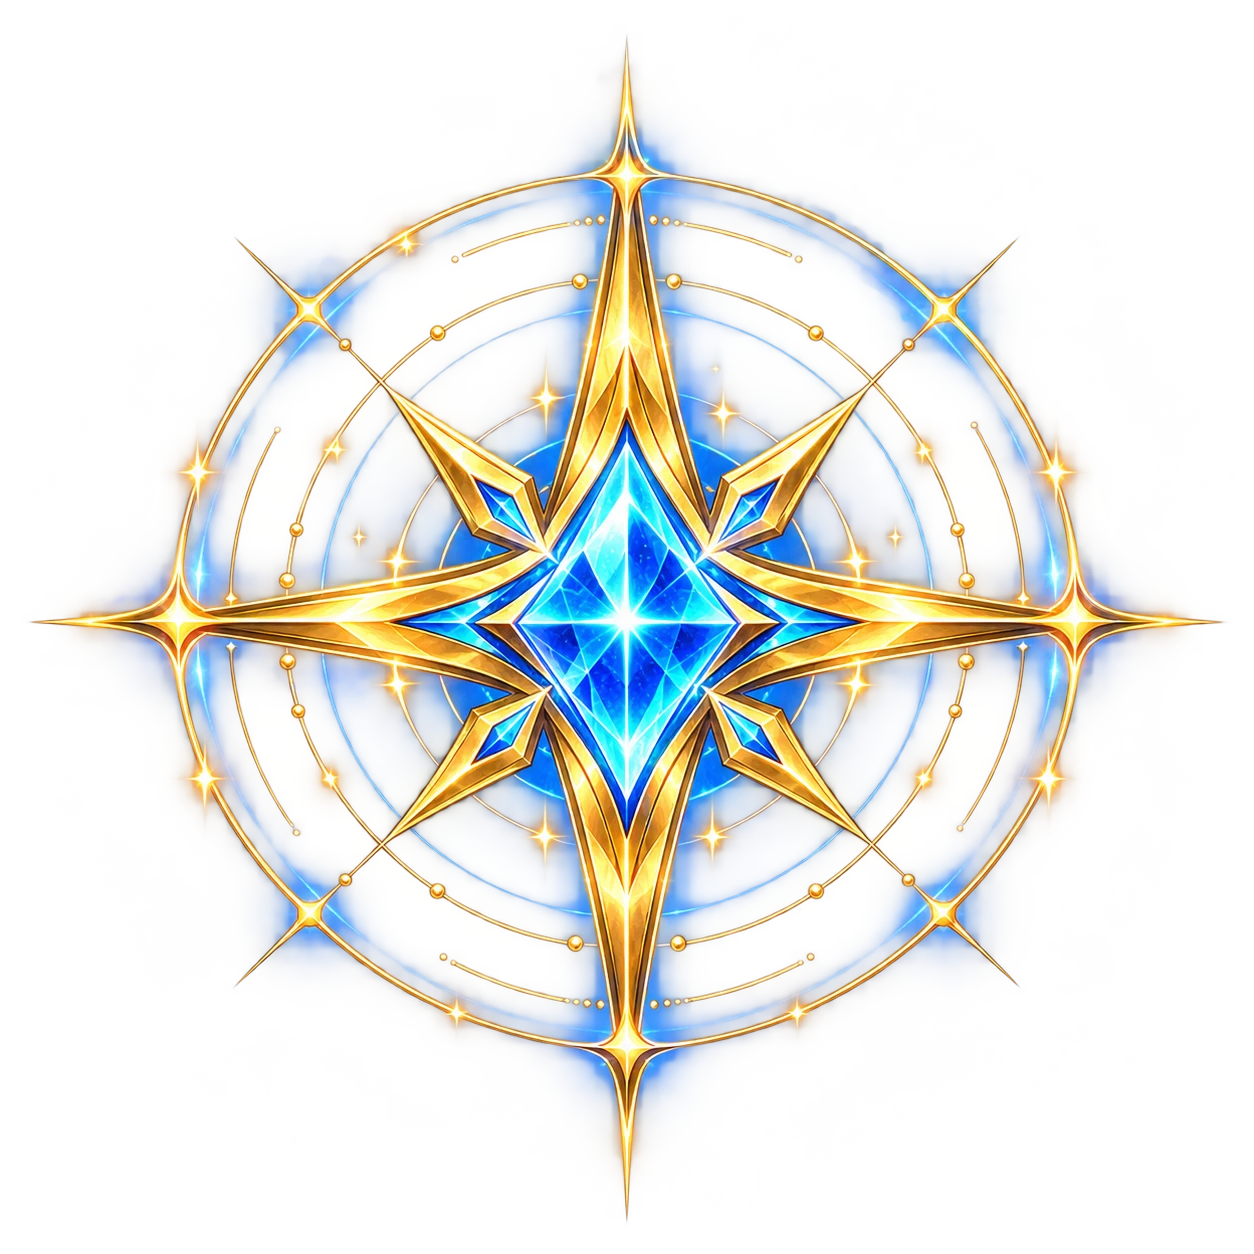
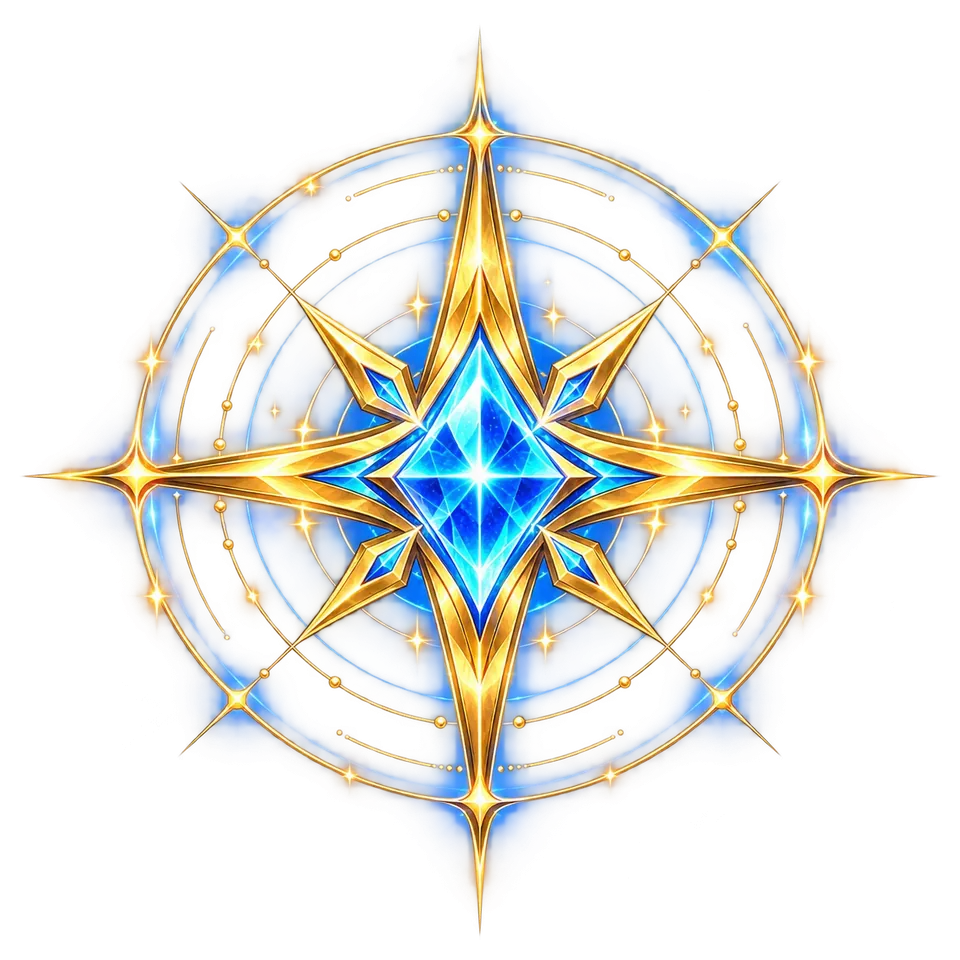
Phones start faster: Phaser, the Raid Hall, Shop and Journey load on demand
Measured on a production build, emulated iPhone (844x390, 3x), 4x CPU:
the welcome screen appears 536 ms sooner (1335 -> 799 ms), the load event
1.61 -> 0.86 s, 6.7 -> 4.8 MB fetched at start.

- Phaser (1.4 MB) loads after the first screen (phaser-runtime.ts): the
  hub warms it while idle and a room asks for it at once, so a battle
  starts as before; one that comes first waits for it. ArenaScene's base
  becomes Phaser.Scene when it arrives.
- The Raid Hall, the fitting room (Shop/Wardrobe) and the Journey, with
  their styles, load the first time they open.
- Both stay in the service worker's precache (offline battles, instant
  panels); verify-pwa checks it, a unit test keeps Phaser out of the
  page's own imports.
- The startup sigil: 1254 -> 960 px (shown at most 480 CSS px), 570 -> 255 KB.

Claude-Session: https://claude.ai/code/session_01DkYiJpd6TXWAK49SSgTtXY

diff --git a/apps/client/src/main.ts b/apps/client/src/main.ts
@@ -186,7 +186,8 @@ import { PRIVACY_URL, isNativeApp, setupNativeShell } from "./native";
 import { appIconCardHTML, bindAppIconCard } from "./app-icon-setting";
 import { abilityIcon } from "./ability-icons";
 import { TouchControls } from "./touch-controls";
-import Phaser from "phaser";
+import type Phaser from "phaser";
+import { loadPhaser, phaser, whenPhaser } from "./phaser-runtime";
 import { io } from "socket.io-client";
 import {
   CHARACTERS,
@@ -1250,6 +1251,8 @@ function roomData(watch: boolean): RoomData {
 /** Draw the room (or a watched room): seats patched in place, the picker
  * opened once and refreshed after. */
 function renderRoom(watch: boolean) {
+  // A match follows: have the battle renderer ready (phaser-runtime.ts).
+  warmPhaser(0);
   const menu = $("menu");
   const d = roomData(watch);
   const seats = roomSeatsMarkup(d);
@@ -1876,6 +1879,21 @@ const WORLD_NAMES: Record<World, string> = {
   bistro: "Bistro",
 };
 const worlds = worldLoader();
+let phaserWarm: ReturnType<typeof setTimeout> | undefined;
+/** Load Phaser `ms` from now, while the page is idle (phaser-runtime.ts). */
+function warmPhaser(ms: number) {
+  if (phaser() || phaserWarm !== undefined) return;
+  phaserWarm = setTimeout(() => {
+    const load = () =>
+      void loadPhaser().catch(() => {
+        // Offline or a new deploy: a battle asks again when it needs it.
+        phaserWarm = undefined;
+      });
+    if (ms && typeof requestIdleCallback === "function")
+      requestIdleCallback(load, { timeout: 4000 });
+    else load();
+  }, ms);
+}
 /** The hub world wanted on screen whose code is still on the way (or failed). */
 let worldWait: World | null = null;
 /**
@@ -1956,6 +1974,8 @@ function syncHub() {
     .connection?.saveData;
   if (hub && !saveData) worlds.warm();
   else worlds.stopWarming();
+  // The battle renderer too, a moment after the hub shows.
+  if (hub) warmPhaser(1500);
   // A scene hiding after the next one showed may have taken the hub's top
   // bar style away (each checks only some of the others): in the hub it is on.
   if (hub) document.body.classList.add("hub-screen");
@@ -4054,7 +4074,19 @@ const attacking = (rig: FighterVisual | undefined) =>
   !!rig &&
   (rig.controller.state === "basic" ||
     rig.controller.state.startsWith("skill"));
-class ArenaScene extends Phaser.Scene {
+/**
+ * ArenaScene's base until Phaser has loaded (phaser-runtime.ts), which then
+ * puts Phaser.Scene in its place: `super` is looked up when it runs, and no
+ * scene exists before a battle, by when Phaser is here.
+ */
+class SceneUntilPhaser {}
+let Ph!: typeof Phaser;
+whenPhaser((lib) => {
+  Ph = lib;
+  Object.setPrototypeOf(ArenaScene, lib.Scene);
+  Object.setPrototypeOf(ArenaScene.prototype, lib.Scene.prototype);
+});
+class ArenaScene extends (SceneUntilPhaser as unknown as typeof Phaser.Scene) {
   graphics!: Phaser.GameObjects.Graphics;
   /** A raid boss, sorted with the fighters by where it stands. */
   bossGraphics!: Phaser.GameObjects.Graphics;
@@ -4559,7 +4591,7 @@ class ArenaScene extends Phaser.Scene {
     // fighter, a skin or boss art) settles what was requested: art still
     // missing may be asked for again. The scene's loader drops its
     // listeners when the scene shuts down.
-    this.load.on(Phaser.Loader.Events.COMPLETE, () => this.fighters.settled());
+    this.load.on(Ph.Loader.Events.COMPLETE, () => this.fighters.settled());
   }
   create() {
     scene = this;
@@ -4613,8 +4645,8 @@ class ArenaScene extends Phaser.Scene {
       for (const label of this.labels.values()) label.remove();
       this.labels.clear();
     };
-    this.events.once(Phaser.Scenes.Events.SHUTDOWN, clearDom);
-    this.events.once(Phaser.Scenes.Events.DESTROY, clearDom);
+    this.events.once(Ph.Scenes.Events.SHUTDOWN, clearDom);
+    this.events.once(Ph.Scenes.Events.DESTROY, clearDom);
     this.graphics = battleCurves(this.add.graphics());
     this.bossGraphics = this.add.graphics();
     // Keys and mouse buttons are read through the player's bindings (see pressAction).
@@ -5456,8 +5488,8 @@ class ArenaScene extends Phaser.Scene {
       const prismAim = state ? prismatailAim(state, local) : undefined;
       if (prismAim) aimAt = prismAim;
       aimAt = {
-        x: Phaser.Math.Clamp(aimAt.x, 0, RULES.width),
-        y: Phaser.Math.Clamp(aimAt.y, 0, RULES.height),
+        x: Ph.Math.Clamp(aimAt.x, 0, RULES.width),
+        y: Ph.Math.Clamp(aimAt.y, 0, RULES.height),
       };
       this.aimPoint = aimAt;
       const input: Input = {
@@ -5951,7 +5983,7 @@ class ArenaScene extends Phaser.Scene {
         if (tier) {
           const colour =
             tier.name === "Crystal" && !reducedMotion
-              ? Phaser.Display.Color.HSVToRGB((_time / 2400) % 1, 0.45, 1).color
+              ? Ph.Display.Color.HSVToRGB((_time / 2400) % 1, 0.45, 1).color
               : Number.parseInt(tier.color.slice(1), 16);
           g.lineStyle(2, colour, 0.75).strokeEllipse(
             x,
@@ -6281,10 +6313,10 @@ class ArenaScene extends Phaser.Scene {
           const wob = reducedMotion ? 0 : Math.sin(_time / 60) * 8;
           const mx = (x + to.x) / 2 + wob,
             my = (y + to.y) / 2 - 24;
-          const curve = new Phaser.Curves.QuadraticBezier(
-            new Phaser.Math.Vector2(x, y - 14 - jump),
-            new Phaser.Math.Vector2(mx, my),
-            new Phaser.Math.Vector2(to.x, to.y - 14),
+          const curve = new Ph.Curves.QuadraticBezier(
+            new Ph.Math.Vector2(x, y - 14 - jump),
+            new Ph.Math.Vector2(mx, my),
+            new Ph.Math.Vector2(to.x, to.y - 14),
           );
           g.lineStyle(9, 0x2a1240, 0.9);
           curve.draw(g, 16);
@@ -6583,7 +6615,7 @@ function drawComboMark(
 /** Paint a fighter solid white for this frame (the rig resets tint each render). */
 function flashWhite(root: Phaser.GameObjects.Container) {
   for (const child of root.list) {
-    if (child instanceof Phaser.GameObjects.Container) flashWhite(child);
+    if (child instanceof Ph.GameObjects.Container) flashWhite(child);
     else (child as Phaser.GameObjects.Image).setTintFill?.(0xffffff);
   }
 }
@@ -6741,6 +6773,15 @@ function releaseHubArt() {
 function ensureBattleRenderer() {
   if (gameInstance || $("game").clientWidth < 1 || $("game").clientHeight < 1)
     return;
+  // Phaser loads after the first screen (phaser-runtime.ts); a battle that
+  // comes before the hub's warm-up finished waits for it, then asks again.
+  if (!phaser()) {
+    void loadPhaser().then(ensureBattleRenderer, (error: unknown) =>
+      console.error("The battle renderer could not load.", error),
+    );
+    return;
+  }
+  const Phaser = Ph;
   battleLoadStarted = performance.now();
   releaseHubArt();
   arenaCssArea = $("game").clientWidth * $("game").clientHeight;
@@ -6788,6 +6829,7 @@ function ensureBattleRenderer() {
 /** A hidden battle canvas must not compete with the menu or Shop preview. */
 function syncBattleLoop() {
   if (!gameInstance) return;
+  const Phaser = Ph;
   if ($("battle").hidden) {
     // Sleeping retains every fighter and arena texture. Release them before
     // opening the hub or the Shop so iOS does not have to evict the whole web app.

diff --git a/apps/client/src/accounts.ts b/apps/client/src/accounts.ts
@@ -5,16 +5,16 @@ import {
   NAME_NOT_ALLOWED,
 } from "../../../packages/shared/src/name-filter";
 import { framedAvatar } from "./portraits";
-import { openFittingRoom, type FittingRoom } from "./screens/fitting-room";
+import type { FittingRoom } from "./screens/fitting-room";
 import type { FitMode, ShopSection } from "./screens/fitting-room-view";
-import { openJourney, type JourneyScreen } from "./screens/journey";
+import type { JourneyScreen } from "./screens/journey";
 import type { JourneyTab } from "./screens/journey-view";
 import {
   playerLevel,
   JOURNEY_ITEM_BY_ID,
 } from "../../../packages/shared/src/journey";
 import { formSubmitButton } from "./dialog";
-import { openRaids, type RaidScreen } from "./screens/raid-hall";
+import type { RaidScreen } from "./screens/raid-hall";
 import type { RaidSeat, RaidTab } from "./screens/raid-hall-view";
 import { iconLabel } from "./menu-icons";
 import { coinChip, compactCoins, leafChip, coins } from "./shop-ui";
@@ -851,6 +851,10 @@ export class AccountUI {
     if (!this.ensurePlayer()) return;
     this.toLobbyScreen();
     const accountId = this.account?.id;
+    // The Raid Hall's code and styles load the first time it opens, not
+    // with the game (a phone starts faster).
+    const { openRaids } = await import("./screens/raid-hall");
+    if (this.account?.id !== accountId) return;
     if (this.raidScreen?.isOpen) {
       this.raidScreen.show(boss, tab);
     } else {
@@ -963,6 +967,10 @@ export class AccountUI {
     if (!this.ensurePlayer()) return;
     // It lives in the Lobby: come back to it, and close any old dialog.
     this.toLobbyScreen();
+    // Its code and styles load the first time it opens, not with the game.
+    const accountId = this.account?.id;
+    const { openFittingRoom } = await import("./screens/fitting-room");
+    if (this.account?.id !== accountId) return;
     if (this.fittingRoom?.isOpen) this.fittingRoom.show(mode, section);
     else {
       this.fitLoading = !this.economy;
@@ -1096,6 +1104,9 @@ export class AccountUI {
     if (!this.ensurePlayer()) return;
     this.toLobbyScreen();
     const accountId = this.account?.id;
+    // Its code and styles load the first time it opens, not with the game.
+    const { openJourney } = await import("./screens/journey");
+    if (this.account?.id !== accountId) return;
     if (!this.journeyScreen?.isOpen) {
       this.journeyLoading = !this.economy;
       this.journeyProblem = "";

diff --git a/apps/client/src/server-connection.ts b/apps/client/src/server-connection.ts
@@ -99,7 +99,7 @@ function renderStatus() {
     panel.className = "server-startup";
     panel.setAttribute("aria-label", "Connecting to Element Arena");
     panel.style.setProperty("--startup-backdrop", `url("${starfield}")`);
-    panel.innerHTML = `<div class="server-startup-card"><header class="server-startup-brand"><h1 aria-label="Element Arena"><span aria-hidden="true">ELEMENT</span><span aria-hidden="true">ARENA</span></h1><span class="server-startup-divider" aria-hidden="true"></span></header><div class="server-startup-scene" aria-hidden="true"><div class="server-startup-art"><span class="server-startup-aura"></span>${orbits}<img src="${sigil}" width="1254" height="1254" alt="" decoding="async" draggable="false"><i></i><i></i><i></i><i></i><i></i><i></i></div></div><div class="server-startup-loading"><h2>Opening the arena…</h2><div class="server-startup-progress" role="progressbar" aria-label="Game server connection" aria-valuemin="0" aria-valuemax="100"><i></i></div><p role="status" aria-live="polite"></p><button type="button" hidden>Try again</button></div></div>`;
+    panel.innerHTML = `<div class="server-startup-card"><header class="server-startup-brand"><h1 aria-label="Element Arena"><span aria-hidden="true">ELEMENT</span><span aria-hidden="true">ARENA</span></h1><span class="server-startup-divider" aria-hidden="true"></span></header><div class="server-startup-scene" aria-hidden="true"><div class="server-startup-art"><span class="server-startup-aura"></span>${orbits}<img src="${sigil}" width="960" height="960" alt="" decoding="async" draggable="false"><i></i><i></i><i></i><i></i><i></i><i></i></div></div><div class="server-startup-loading"><h2>Opening the arena…</h2><div class="server-startup-progress" role="progressbar" aria-label="Game server connection" aria-valuemin="0" aria-valuemax="100"><i></i></div><p role="status" aria-live="polite"></p><button type="button" hidden>Try again</button></div></div>`;
     const emblem = panel.querySelector("img")!;
     emblem.addEventListener(
       "error",

diff --git a/apps/client/vite.config.ts b/apps/client/vite.config.ts
@@ -37,10 +37,14 @@ function legacyAuthPages(): Plugin {
 /**
  * The scripts the game page loads to start: its entry and everything that
  * entry imports statically (Phaser, the libraries). Recorded while bundling
- * so the service worker precaches exactly these; scripts loaded later (the
- * Farm, Plaza and Bistro, the shop preview) are cached when first used.
+ * so the service worker precaches exactly these, and the Lobby panels that
+ * load on first use (PRECACHED_PANELS); scripts loaded later (the Farm,
+ * Plaza and Bistro, the shop preview) are cached when first used.
  */
 const startupScripts = new Set<string>();
+/** Panels split out of the startup bundle, precached all the same. */
+const PRECACHED_PANELS =
+  /\/src\/screens\/(raid-hall|fitting-room|journey)\.ts$/;
 function startupScriptList(): Plugin {
   return {
     name: "startup-script-list",
@@ -57,7 +61,17 @@ function startupScriptList(): Plugin {
       if (!entries.length) return;
       startupScripts.clear();
       const byFile = new Map(chunks.map((chunk) => [chunk.fileName, chunk]));
-      const queue = entries.map((chunk) => chunk.fileName);
+      // The Lobby's panels that load on first use (accounts.ts) and Phaser
+      // are installed ahead of time too: they open at once, offline as
+      // well, without the game parsing them at startup.
+      const lazyPanels = chunks.filter(
+        (chunk) =>
+          PRECACHED_PANELS.test(chunk.facadeModuleId ?? "") ||
+          // Phaser loads after the first screen (phaser-runtime.ts), but
+          // every battle needs it, offline too.
+          chunk.name === "phaser",
+      );
+      const queue = [...entries, ...lazyPanels].map((chunk) => chunk.fileName);
       while (queue.length) {
         const file = queue.pop()!;
         if (startupScripts.has(file)) continue;

diff --git a/apps/client/src/phaser-runtime.ts b/apps/client/src/phaser-runtime.ts
@@ -1,0 +1,48 @@
+/**
+ * Phaser (about 1.4 MB of script) loads after the game's first screen, not
+ * with it: running it took about half a second of a phone's start (measured
+ * on an emulated iPhone at 4× CPU slowdown), and nothing before the first
+ * battle or animated fighter needs it. The hub warms it while idle
+ * (main.ts), so a battle starts as fast as before; a battle that comes
+ * first waits for it (`ensureBattleRenderer`).
+ *
+ * Modules use `import type Phaser from "phaser"` for its types and this
+ * module for the library itself.
+ */
+import type PhaserLib from "phaser";
+
+let runtime: typeof PhaserLib | undefined;
+let loading: Promise<typeof PhaserLib> | undefined;
+const ready: ((lib: typeof PhaserLib) => void)[] = [];
+
+/** Phaser, once it has loaded. */
+export function phaser() {
+  return runtime;
+}
+
+/** Load Phaser (once), then run what waits for it. */
+export function loadPhaser(): Promise<typeof PhaserLib> {
+  loading ??= import("phaser").then(
+    (module) => {
+      const lib = (module.default ?? module) as typeof PhaserLib;
+      for (const run of ready.splice(0)) run(lib);
+      runtime = lib;
+      return lib;
+    },
+    (error: unknown) => {
+      // Asked again later (another battle), try again.
+      loading = undefined;
+      throw error;
+    },
+  );
+  return loading;
+}
+
+/**
+ * Run `adopt` with Phaser before anything else uses it: at once if it has
+ * loaded, else as it arrives (before `loadPhaser` resolves).
+ */
+export function whenPhaser(adopt: (lib: typeof PhaserLib) => void) {
+  if (runtime) adopt(runtime);
+  else ready.push(adopt);
+}

diff --git a/tests/unit/startup-bundle.test.ts b/tests/unit/startup-bundle.test.ts
@@ -1,0 +1,39 @@
+import { describe, expect, it } from "vitest";
+import { readdirSync, readFileSync, statSync } from "node:fs";
+import { join } from "node:path";
+
+// Phaser loads after the first screen (apps/client/src/phaser-runtime.ts):
+// a module that imports it as a value would put all of it back into the
+// game's start. Types come from `import type Phaser from "phaser"`.
+const SRC = "apps/client/src";
+const files = (dir: string): string[] =>
+  readdirSync(dir).flatMap((f) => {
+    const p = join(dir, f);
+    return statSync(p).isDirectory() ? files(p) : p.endsWith(".ts") ? [p] : [];
+  });
+
+describe("startup bundle", () => {
+  it("imports Phaser as a value only where it is loaded on demand", () => {
+    const valueImports = files(SRC).filter((f) =>
+      /^import\s+(?!type\b)[^;]*from\s+["']phaser["']/m.test(
+        readFileSync(f, "utf8"),
+      ),
+    );
+    // shop-preview.ts is itself imported with import().
+    expect(valueImports.map((f) => f.slice(SRC.length + 1))).toEqual([
+      "shop-preview.ts",
+    ]);
+  });
+  it("opens the Raid Hall, the fitting room and the Journey on demand", () => {
+    const accounts = readFileSync(join(SRC, "accounts.ts"), "utf8");
+    for (const screen of ["raid-hall", "fitting-room", "journey"]) {
+      expect(accounts).not.toMatch(
+        new RegExp(
+          `^import\\s+\\{[^}]*\\bopen\\w+[^}]*\\}\\s+from\\s+"\\./screens/${screen}"`,
+          "m",
+        ),
+      );
+      expect(accounts).toContain(`await import("./screens/${screen}")`);
+    }
+  });
+});

diff --git a/apps/client/src/graphics-bake.ts b/apps/client/src/graphics-bake.ts
@@ -1,4 +1,5 @@
-import Phaser from "phaser";
+import type Phaser from "phaser";
+import { phaser } from "./phaser-runtime";
 
 /**
  * `Graphics.generateTexture` draws through one static camera shared by every
@@ -23,8 +24,11 @@ export function generateGraphicsTexture(
 
 /** Drop the shared bake camera's references to game objects and scenes. */
 export function releaseBakeCamera() {
+  // (Before Phaser has loaded, nothing has baked.)
+  const lib = phaser();
+  if (!lib) return;
   const camera = (
-    Phaser.GameObjects.Graphics as unknown as {
+    lib.GameObjects.Graphics as unknown as {
       TargetCamera?: {
         renderList: unknown[];
         scene?: unknown;

diff --git a/apps/client/src/animation/rig.ts b/apps/client/src/animation/rig.ts
@@ -6,7 +6,7 @@ import {
 import { cosmeticLayer, type Skin } from "./cosmetics";
 import { profilePartOrder, profileEmissionPoint } from "../creature-profile";
 import { drawElementGlyph } from "../element-effects";
-import Phaser from "phaser";
+import type Phaser from "phaser";
 import { CHARACTERS, type CharacterId } from "@arena/shared";
 import { moodFor, squashFor } from "./expression";
 import {
